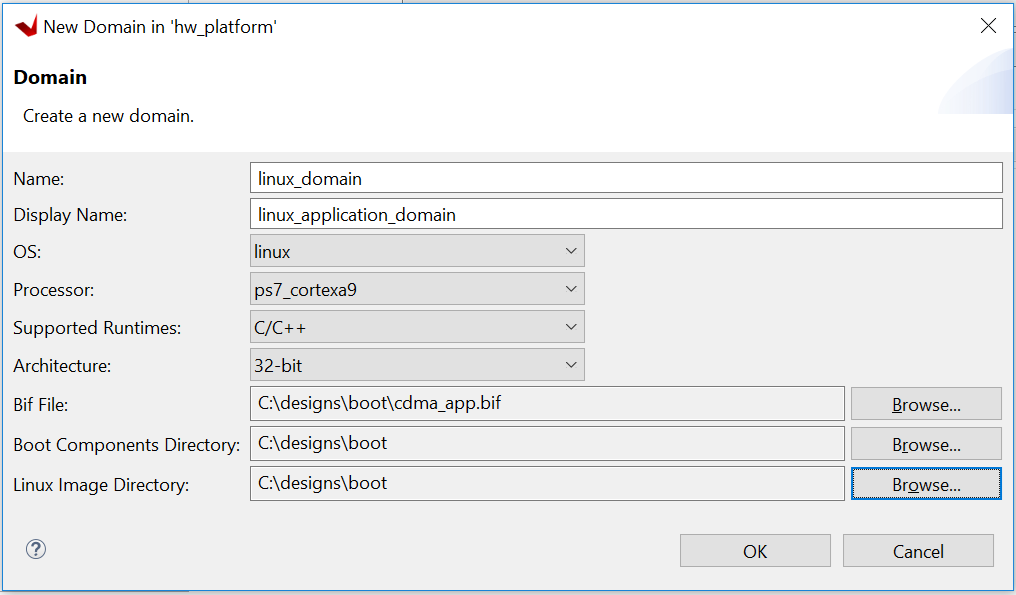
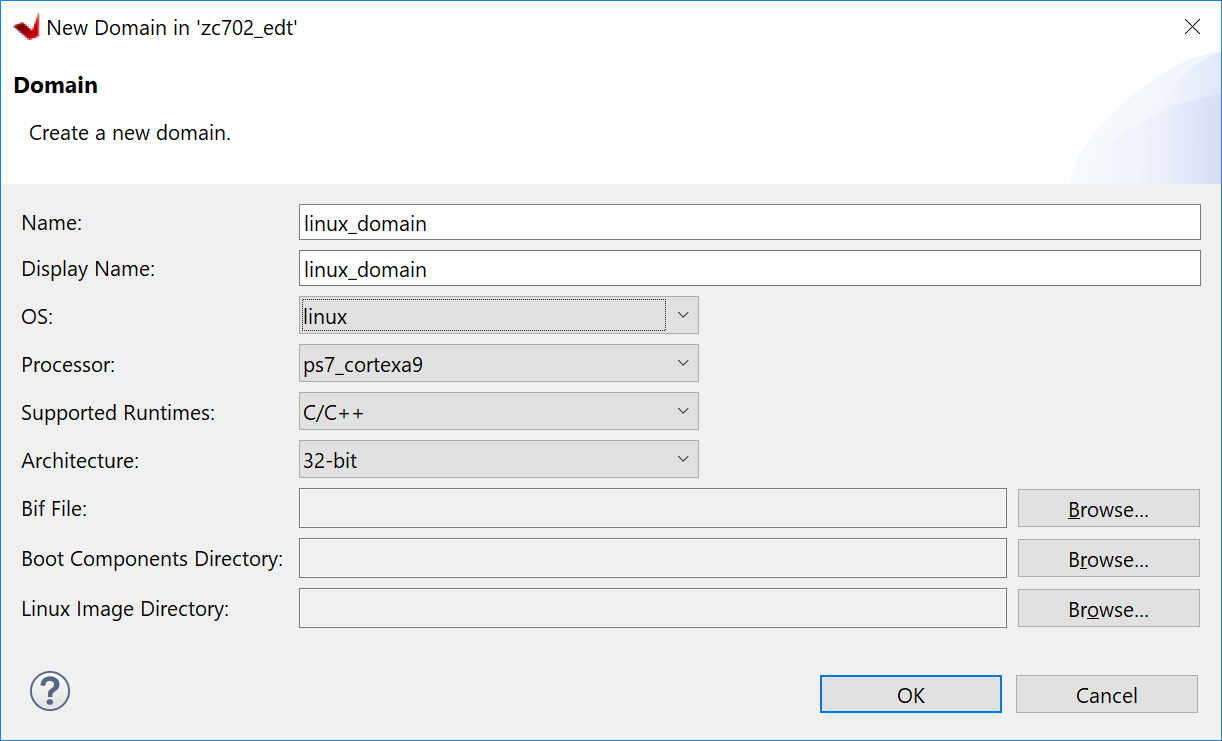
ch4 updated

Changed region(s): [[0.0, 0.0, 1.0, 1.0], [0.0, 0.2723, 0.1831, 0.6353]]

diff --git a/docs/Introduction/Zynq7000-EDT/4-linux-for-zynq.md b/docs/Introduction/Zynq7000-EDT/4-linux-for-zynq.md
@@ -125,10 +125,12 @@ JTAG mode.
 
 4.  Make sure Ethernet Jumper J30 and J43 as shown in the following figure.
 
-    ![Ethernet Jumper](./media/image69.jpeg)    
+    ![Ethernet Jumper](./media/image69.jpeg)
+
+    Ethernet is optional in this example. It's required in Example 5.    
 
 5.  Launch the Vitis software platform and open the same workspace you
-    used in [Using the Zynq SoC Processing System](2-using-zynq.md) and [Using the GP Port in Zynq Devices](3-using-gp-port-zynq.md).
+    used in [Example 2](2-using-zynq.md) and [Example 3](3-using-gp-port-zynq.md).
 
 6.  If the serial terminal is not open, connect the serial communication
     utility with the baud rate set to **115200**.
@@ -138,10 +140,12 @@ JTAG mode.
 
 7.  Power on the target board.
 
+8.  Linux login prompt will appear. Use user name `root` and password `root` to login.
+
 ## Example 5: Creating Hello World Application for Linux in Vitis IDE
 
-<!--Merge with the next chapter-->
-### Linux Domain Creation for Linux Applications
+
+### Creating Linux Domain
 
 Now that Linux is running on the board, you can create a Linux domain
 followed by a Linux application. The steps to create a Linux domain
@@ -150,65 +154,54 @@ are given below:
 1.  Go to the Explorer view in the Vitis software platform and expand
     the **zc702_edt** platform project.
 
-2.  Open the hardware by double clicking **platform.spr**.
+2.  Open the platform by double clicking **platform.spr**.
 
 3.  The platform view opens. Click the **+** button in the right corner
     to add a domain, as shown in the following figure.
 
-    ![](./media/image73.jpeg)
+    ![platform.spr](./media/image73.png)
 
 4.  When the New Domain dialog box opens, enter the details as given
     below:
 
-    | Option             | Value                    |
-    | ------------------ | ------------------------ |
-    | Name               | linux_domain             |
-    | Display Name       | linux_application_domain |
-    | OS                 | Linux                    |
-    | Processor          | ps7_cortexa9             |
-    | Supported Runtimes | C/C++                    |
+    | Option                    | Value        |
+    | ------------------------- | ------------ |
+    | Name                      | linux_domain |
+    | Display Name              | linux_domain |
+    | OS                        | Linux        |
+    | Processor                 | ps7_cortexa9 |
+    | Supported Runtimes        | C/C++        |
+    | Architecture              | 32-bit       |
+    | Bif file                  | Keep blank   |
+    | Boot Components Directory | Keep blank   |
+    | Linux image directory     | Keep blank   |
 
-    - Select **Use pre-built software components**
-
-    - Create one boot directory in the C:\designs folder, then copy the
-    boot components into it (FSBL, PMUFW from the Vitis software
-    platform, ATF, u-boot.elf and image.ub from PetaLinux).
-
-    - Create one BIF file as below.
-
-    ![](./media/image74.png)   
+    ![Creating Linux domain](media/image74.png)
 
     - Click **OK** to finish and observe
     that the Linux domain has been added to the zc702_edt as shown
     below.
 
-    ![](./media/image75.jpeg)    
+    ![Updated platform domains](./media/image75.png) 
+
+    **Note**: If we fill in Bif file, Boot Components Directory and Linux image directory options, Vitis can help to generate sd_card.img when we build the system project in Linux host OS. It will be helpful if we use ext4 root file system. In our examples, since we use initramfs, it only requires copying files to FAT32 partition into the SD card. So we won't use this feature.
+
+5. Build the platform
+
+    - Click the hammer button on the tool bar to build the platform.
 
     Now you are ready with Linux domain to create Linux applications.
 
 
 ### Creating Linux Applications in the Vitis IDE
 
-1. Create a Linux domain:
-
-   - Double-click **platform.spr** in the zc702_edt platform to open platform configurations.
-   - Click the **+** button to add a domain.
-   - Input the following domain parameters:
-       - Name: **linux**
-       - OS: **linux**
-       - Keep the other options as-is and click **OK**.
-   - Review the Linux domain configuration details.
-   - Build the platform project by clicking the hammer icon.
-
-   ![Linux domain configuration details](media/linux_domain_details.png)
-
-2. Create a Linux application:
+1. Create a Linux application:
 
    - Click **File → New → Application Project**.
    - Click **Next** on the welcome page.
    - Select platform: **zc702_edt**. Click **Next**.
-   - Enter the application project name, **hello_linux**, and the target processor, **psu_cortexa53 SMP**.
-   - Keep the default domain: **linux**.
+   - Enter the application project name, **hello_linux**, and the target processor, **psu_cortexa9 SMP**.
+   - Keep the default domain: **linux_domain**.
    - Keep the SYSROOT, rootfs, and kernel image empty, and click **Next**.
    - Select the **Linux Hello World** template. Click **Finish**.
 
@@ -216,7 +209,7 @@ are given below:
 
    **Note:** If you input a rootfs and kernel image, Vitis can help to generate the ``SD_card.img`` when building the Linux system project.
 
-3. Build the hello_linux application.
+2. Build the **hello_linux** application.
 
    - Select **hello_linux**.
    - Click the hammer button to build the application.
@@ -259,13 +252,15 @@ The Vitis IDE needs a channel to download the application to the running target.
 1. Run the Linux application:
 
    - Right-click **hello_linux**, and select **Run As → Run Configurations**.
-   - Expand **Single Application Debug** and select **Debugger_hello_linux-Default**.
+   - Expand **Single Application Debug** and select **Debugger_hello_linux-Default**. If it doesn't exist, click the **New Launch Configuration** button or double click **Single Application Debug** to create a new launch configuration for hello_linux.
    - Review the configurations:
        - Debug type: **Linux Application Debug**
        - Connection: **Linux Agent**
    - Click **Run**.
 
    ![Vitis Linux Run Configurations](media/vitis_linux_run_configurations.png)
+
+   ![Application Tab](./media/vitis_linux_run_configurations_applications.png)
 
    - The console should print **Hello World**.
 
@@ -301,7 +296,7 @@ Debugging Linux applications requires the Linux agent to be set up properly. Ref
     - The next line to execute has a green background.
     - Step over by clicking the icon on the toolbar or pressing **F6** on the keyboard. The printed string will be shown on the Console panel.
 
-    ![](./media/vitis_debugger_hello_linux.png)
+    ![Debug window](./media/vitis_debugger_hello_linux_zynq.png)
 
 3. Disconnect the connection:
 
@@ -322,6 +317,5 @@ In this chapter, you learned how to:
 - Create simple Linux applications with the Vitis IDE.
 - Run and debug using the Vitis IDE.
 
-In the [next chapter](./7-design1-using-gpio-timer-interrupts.md), we will connect all points previously introduced and create a system design.
 
 © Copyright 2017-2021 Xilinx, Inc.
